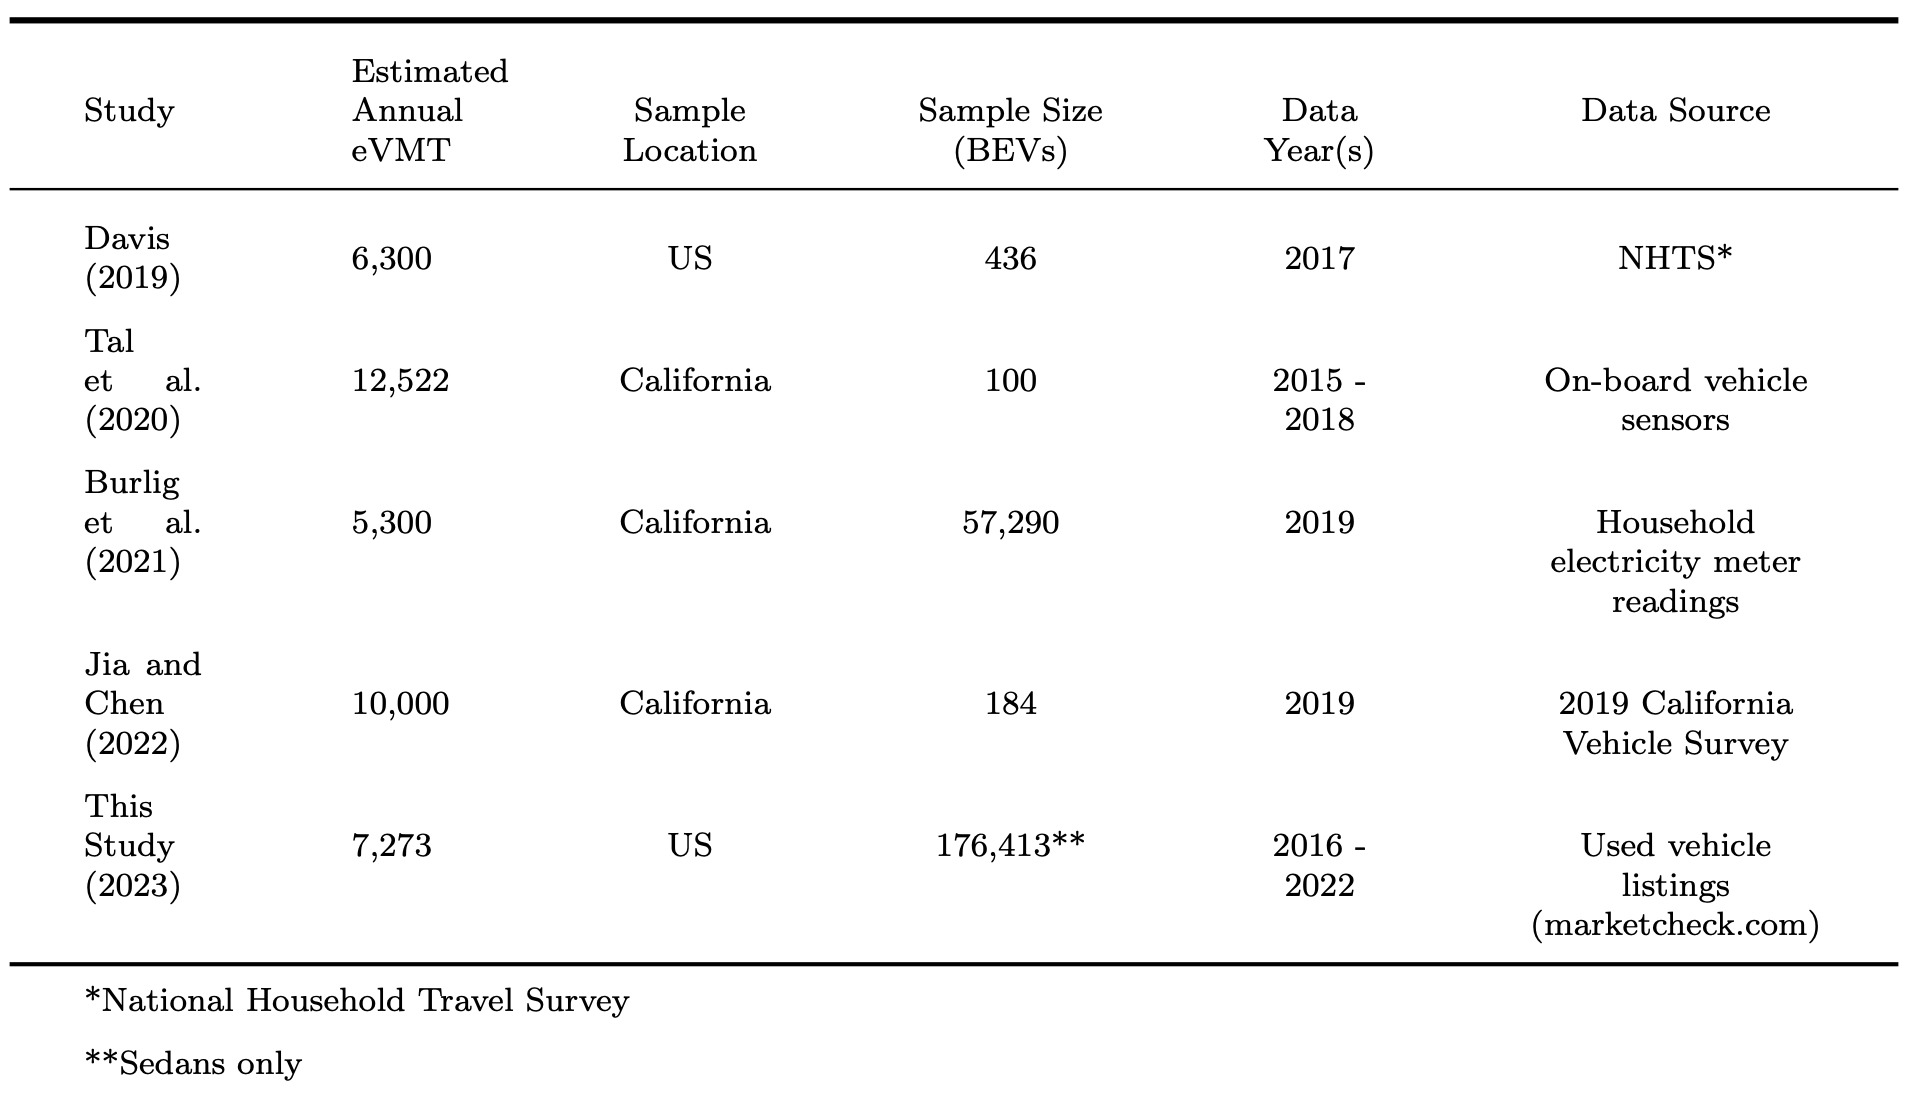
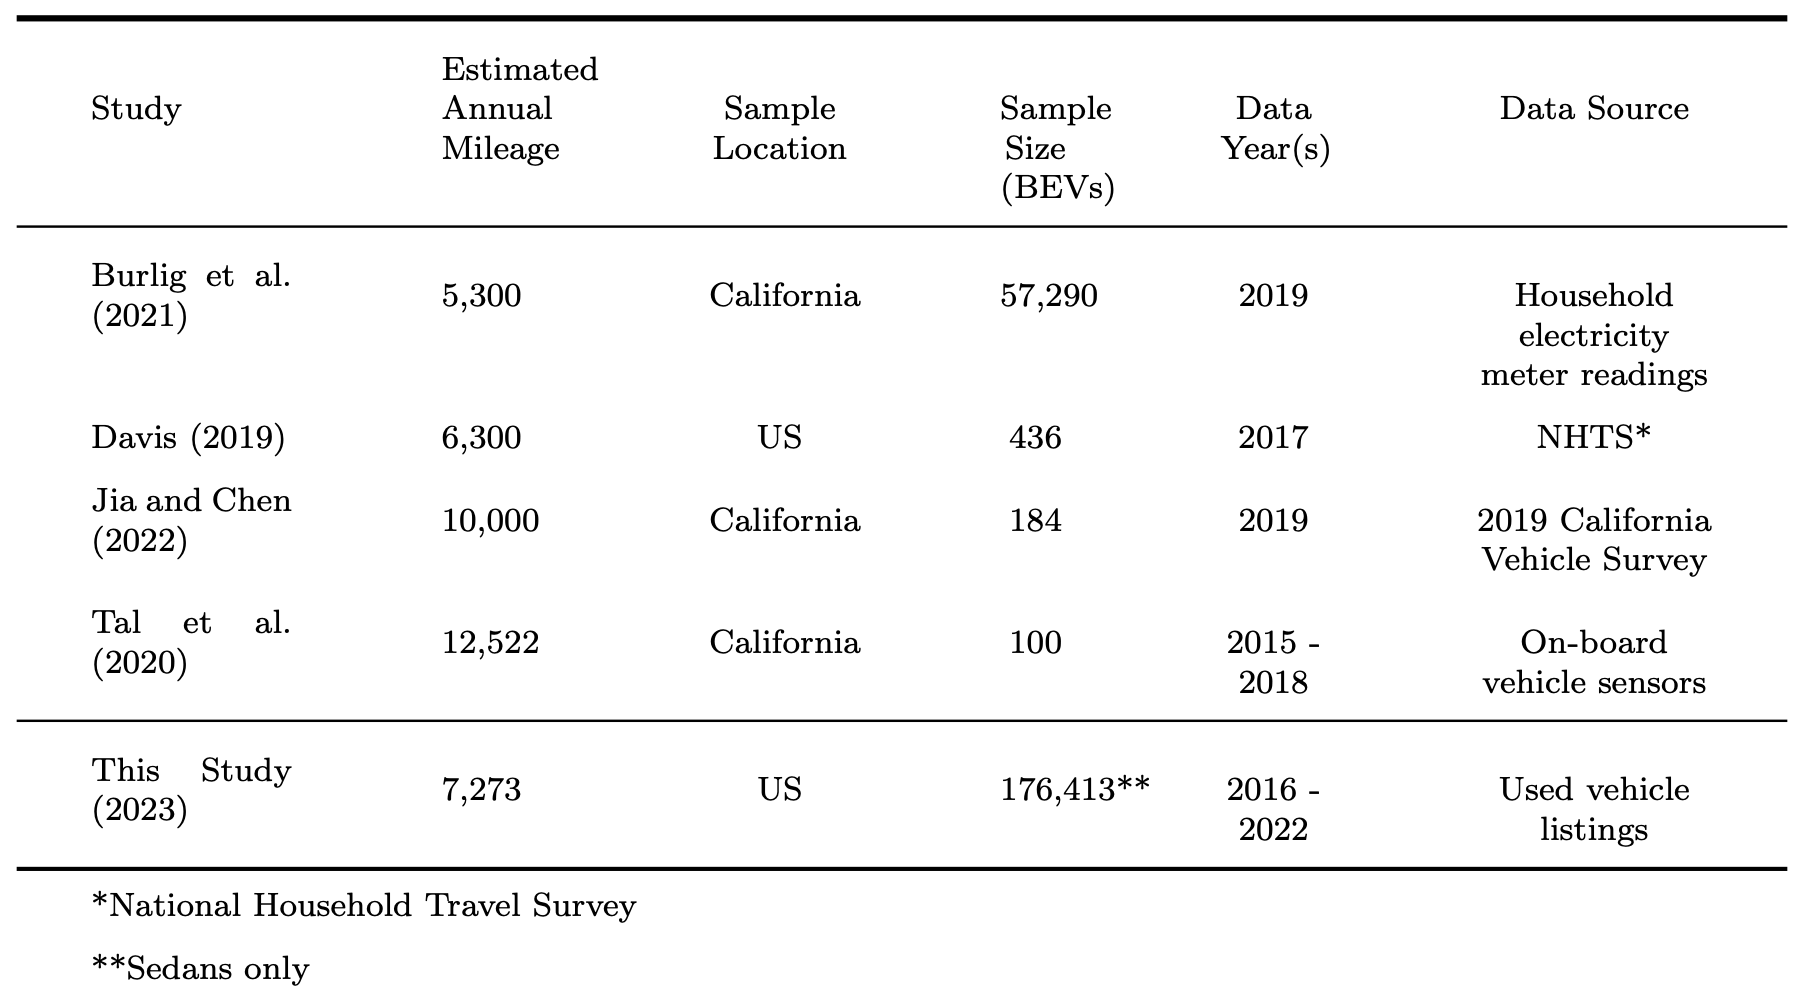
updated table

diff --git a/2023-isa-conf/index.html b/2023-isa-conf/index.html
@@ -95,8 +95,10 @@ Laura Roberson, Ph.D. Student&lt;br&gt;&lt;br&gt;&lt;br&gt;
 
 background-color: #fff
 
+### .center[Inconsistent mileage conclusions in prior studies]
+
 &lt;center&gt;
-&lt;img src="images/table-lit.png" width=100%&gt;
+&lt;img src="images/table-lit.png" width=900&gt;
 &lt;/center&gt;
 
 ---
